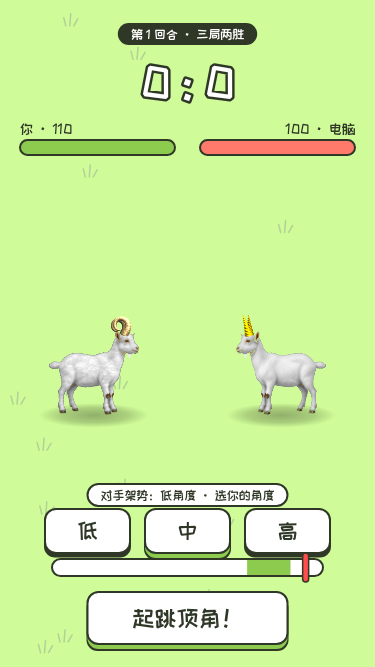
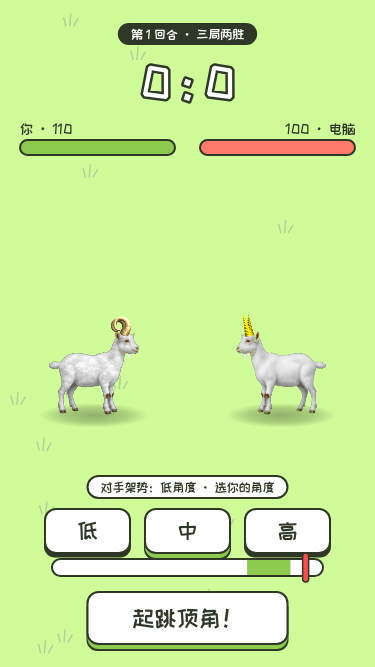
UI v3.1: 擂主屏返回按钮与“你：”行间距（theme layout.arena），对战/顶顶乐提示胶囊间距；p15 前后对比

Changed region(s): [[0.2053, 0.6897, 0.792, 0.7796]]

diff --git a/js/main.js b/js/main.js
@@ -294,15 +294,15 @@ function drawArena() {
   }, 'blue', 14);
   btn(P + hw + 12, y + 106, hw, 38, '🚩 选择牧场', function () { st.scene = 'faction'; }, 'orange', 14);
   // 牧场榜：胶囊行 + 左侧彩色名次块，只显示牧场名（本地演示数据；正式版按人均分由云函数计算）
-  var ly = y + 162; text('本周牧场榜 · 人均分（本地演示）', W / 2, ly, 12, 'muted');
+  var AL = LY.arena; var ly = y + AL.rankY; text('本周牧场榜 · 人均分（本地演示）', W / 2, ly, 12, 'muted');
   var rows = A.FACTIONS.factions.map(function (f) { return { f: f, v: p.factionScores[f.id] || 0 }; }).sort(function (a, b) { return b.v - a.v; }).slice(0, 3);
   var RC = [TH.colors.yellow, '#C9CCC4', TH.colors.orange];
-  rows.forEach(function (r, i) { var ry = ly + 12 + i * 27, rx = P + 20, rw = W - 2 * P - 40;
-    UI.sticker(ctx, rx, ry, rw, 22, 11, '#FFFFFF', 0, null, 2); UI.sticker(ctx, rx, ry, 34, 22, 11, RC[i], 0, null, 2);
-    text('' + (i + 1), rx + 17, ry + 11, 13); text(A.factionLabel(r.f), rx + 46, ry + 11, 13, 'ink', 'left'); text('' + r.v, rx + rw - 12, ry + 11, 13, 'ink', 'right'); });
-  if (f) text('你：' + f.name + '的一只' + D.horns[st.idx.horn].name + '羊', W / 2, ly + 99, 11, 'muted');
-  btn(W / 2 - 55, H - 56, 110, 34, '返回', function () { st.scene = 'custom'; }, 'gray', 16);
-  text('适度游戏益脑，沉迷游戏伤身', W / 2, H - 12, 10, 'muted');
+  rows.forEach(function (r, i) { var ry = ly + AL.rowY0 + i * AL.rowStep, rx = P + 20, rw = W - 2 * P - 40;
+    UI.sticker(ctx, rx, ry, rw, AL.rowH, AL.rowH / 2, '#FFFFFF', 0, null, 2); UI.sticker(ctx, rx, ry, 34, AL.rowH, AL.rowH / 2, RC[i], 0, null, 2);
+    text('' + (i + 1), rx + 17, ry + AL.rowH / 2, 13); text(A.factionLabel(r.f), rx + 46, ry + AL.rowH / 2, 13, 'ink', 'left'); text('' + r.v, rx + rw - 12, ry + AL.rowH / 2, 13, 'ink', 'right'); });
+  if (f) text('你：' + f.name + '的一只' + D.horns[st.idx.horn].name + '羊', W / 2, ly + AL.youY, 11, 'muted');
+  btn(W / 2 - AL.backW / 2, H - AL.backBottom, AL.backW, AL.backH, '返回', function () { st.scene = 'custom'; }, 'gray', 16);
+  text('适度游戏益脑，沉迷游戏伤身', W / 2, H - AL.footBottom, 10, 'muted');
 }
 // ---------- 顶顶乐 ----------
 var DG = null, DP = null;
@@ -366,7 +366,7 @@ function drawDdl() {
   });
   DG.state.forEach(drawObj);
   if (FX.enabled) FX.drawScene(ctx); ctx.restore();
-  if (DG.msg) pill(DG.msg, W / 2, H - 150, true, 13);
+  if (DG.msg) pill(DG.msg, W / 2, H - TH.field.msgBottom, true, 13);
   var y0 = H - 130;
   if (DG.phase === 'aim') {
     text('拖动瞄准 · 角度 ' + Math.round(DG.aimAngle) + '°', W / 2, y0 + 2, 13);

diff --git a/js/theme.js b/js/theme.js
@@ -46,7 +46,7 @@ module.exports = {
     h: 15, radius: 7.5, stroke: 2, bg: '#FFFFFF', hp: '#8CCB4E', hpLow: '#FF7A6B', lowRatio: 0.3,
     meterH: 17, meterZone: '#8CCB4E', marker: '#FF4D4D', markerW: 6, markerH: 29
   },
-  field: { // 顶顶乐场地
+  field: { msgBottom: 162, // 顶顶乐场地
     bg: '#CFFC98', top: '#CFFC98', line: '#2F3727', lineW: 2,
     objects: { crate: '#E8B070', fragile: '#FFD9A0', ball: '#FFFFFF', rock: '#9AA19A', sheep: '#FFFFFF' }, fallback: '#DDDDDD',
     hay: '#FCD800', hayAlpha: 0.85, hayStroke: '#B08A1E', target: '#FCD800',
@@ -57,8 +57,9 @@ module.exports = {
     home: { titleY: 104, titleSize: 50, pillY: 160, goatY: 262, goatS: 1.6, statsY: 340, tipY: 358, rowY: 374, rowGap: 45, rowH: 35, arrowW: 35, rowX: 47,
       startW: 200, startH: 55, startBottom: 112, sideW: 55, sideH: 42, sideBottom: 97, sideX: 20 },
     battle: { pillY: 34, scoreY: 82, scoreSize: 46, hpY: 140, hpLabelY: 129, hpW: 155, msgY: 186, arenaY: 112,
-      jumpW: 200, jumpH: 52, jumpBottom: 75, meterBottom: 108, angleBottom: 158, angleW: 85, angleH: 44, hintBottom: 172, sceneShiftY: -70 },
+      jumpW: 200, jumpH: 52, jumpBottom: 75, meterBottom: 108, angleBottom: 158, angleW: 85, angleH: 44, hintBottom: 180, sceneShiftY: -70 },
     result: { cardX: 42, cardY: 150, cardW: 290, cardH: 380, bannerY: 150, goatY: 250, goatS: 1.25, lineY: 330, subY: 357, bigY: 390, bigSize: 44, btnY: 430, btnW: 180, btnH: 50, btn2Y: 495, btn2W: 110, btn2H: 40 },
+    arena: { rankY: 162, rowY0: 12, rowStep: 25, rowH: 20, youY: 94, backW: 110, backH: 32, backBottom: 52, footBottom: 10 },
     list: { titleY: 52, subY: 94, top: 118, rowH: 50, gap: 12, backW: 110, backH: 40, backBottom: 60 }
   },
   motion: { titlePopFrom: 0.6, titlePopMs: 380, titleEasing: 'Back.Out', fadeMs: 220, fadeEasing: 'Quadratic.Out', buttonRise: 8, buttonMinAlpha: 0.25, panelMinAlpha: 0.3 },

diff --git a/docs/theme.md b/docs/theme.md
@@ -66,3 +66,7 @@
 - battle.sceneShiftY：仅平移场景显示层，不影响物理坐标。
 - 顶顶乐玩家羊/瞄准线在控件之上绘制（起点 y≈600 与底部控件重叠）。
 - 验证：tools/p14_shots.py（Playwright 真实点击按钮中心走通全部流程，docs/p14_flow.json）。
+
+## v3.1 间距修正（p15）
+- layout.arena 令牌（rankY,rowStep,rowH,youY,backW/H,backBottom,footBottom）：擂主屏榜单/“你：”/返回按钮间距 ≥10px，点击区域由同一值生成。
+- battle.hintBottom 172→180（对手架势胶囊与角度按钮间距）；field.msgBottom 162（顶顶乐提示胶囊与瞄准标签）。
